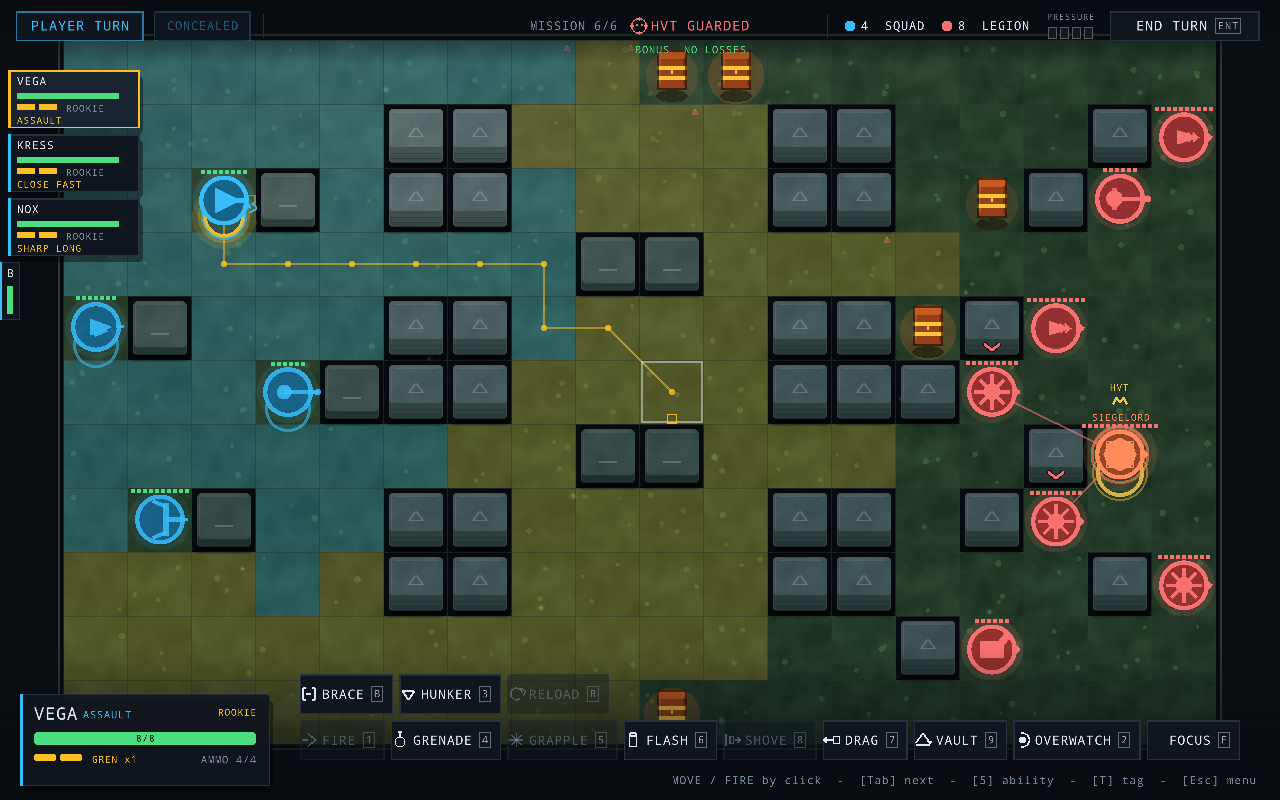
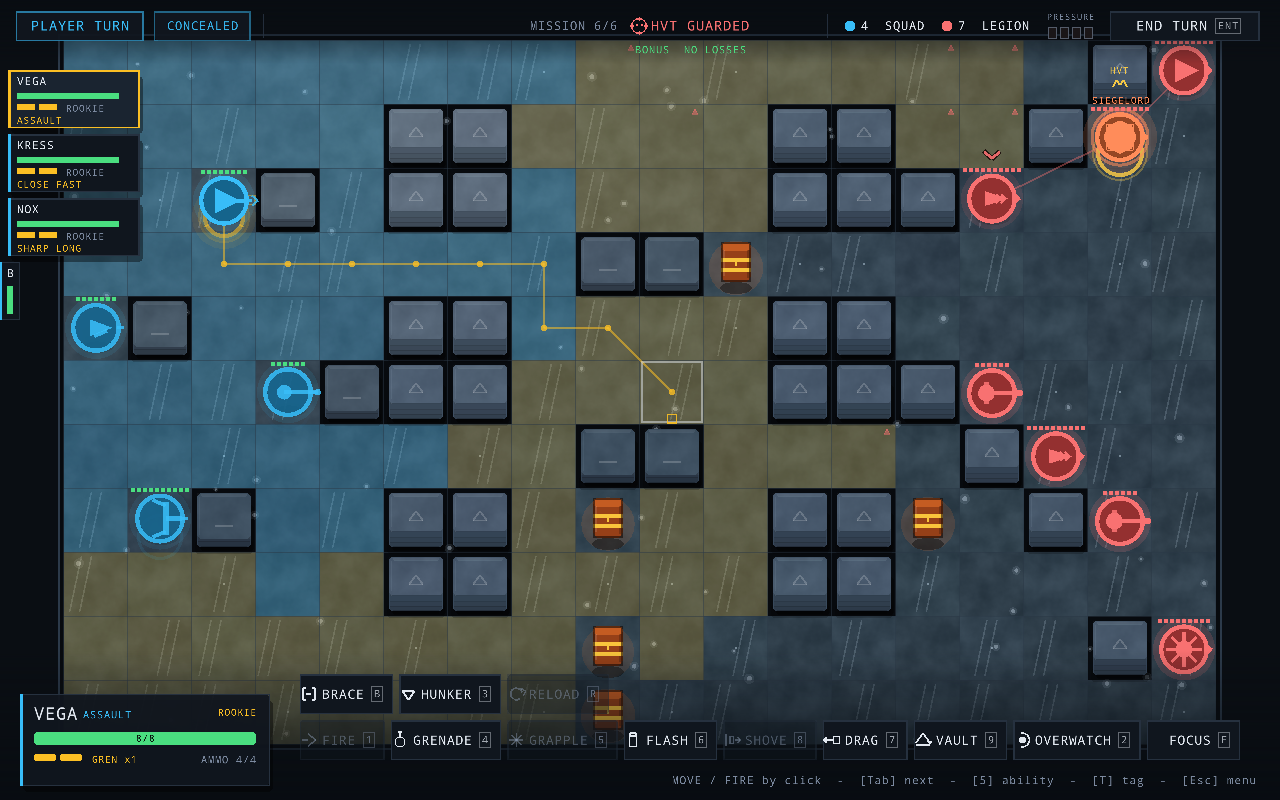
Finale kits: measured tune to the 80-88 band + decorrelated kit choice
Flywheel evidence (paired CRN slots, h0+h2), per VERIFY:
- Kit choice: an rng.Next draw off the map rng collapsed under the flywheel's
  correlated seed pairs (16/4/0 kits over 20 seeds) -> replaced with an
  avalanche hash of MapSeed; zero draws taken, generator stream now untouched.
- First-cut Legion kit (14+2n siege boss + LANCER/BOMBARD retinue) measured
  37% m6-conditional: boss strike + second artillery + close-warp taxed
  position three times over. Shipped: standard-statline SIEGELORD, LANCER
  pair escort, and a boss-only cluster gate (a siege-armed ELITE shells only
  2+ soldier clusters; rank-and-file BOMBARD keeps hits>=1) -> SPREAD OUT is
  the counter-verb. SPYMASTER 14+n -> 12+n (73% -> 82%).
- m6 bite sized by dose-response: +2 bodies -> m6 70-76% and h0 completion
  75->60 (3x dip budget) with the policy ordering INVERTED (greedy 45 vs
  sloppy 75-80 - the punish-gap failure); +0 bodies -> m6 100% (formality
  returns); +1 body (count-3) shipped: m6 79/76% unpinned, 89/82/85 per-kit,
  ~82% pooled (n=144), greedy>sloppy restored at both heats.
- Spec's finale Ai.Tier raise implemented then measured OUT (kept the greedy
  collapse even in isolation candidates); documented at the site.
- FINALE-KIT log line (Stats.Enabled only) for per-seed kit reachability.

diff --git a/src/Mission.cs b/src/Mission.cs
@@ -397,13 +397,16 @@ public static class Mission
         // below). Net at heat 0: 8 hostiles incl. the boss (was 12), supporters at +5 not +6.
         if (n >= Run.MaxMissions)
         {
-            // SIGNAL W5 — m6 bite: with a FINALE KIT active (the Boss node is faction-stamped by
-            // Run.GenerateMap, so the faction roster + combat warp + kit boss/retinue are all live)
-            // restore 2 of the 4 de-stacked bodies. The de-stack fixed a ~90%-loss wall, but it
-            // overshot: the finale measured 96% conditional (the easiest fight after m3) — a
-            // formality, not a climax. An UNSTAMPED finale (the Faction.None safety fallback:
-            // harness paths that never walk the map) keeps the old count-4 exactly.
-            count = Math.Max(5, count - (Combat.MissionFaction != Faction.None ? 2 : 4));
+            // SIGNAL W5 — m6 bite, MEASURED SIZE (paired flywheel, h0 slots 0-19): the finale is
+            // startlingly body-count sensitive. With the kits live: restore +2 bodies (count-2) ->
+            // m6 70-76% conditional and h0 run completion 75% -> 60% (3x the -5pt dip budget);
+            // restore 0 (count-4) -> m6 100% (a formality again — the kit retinues are support
+            // pieces and the faction rosters run softer than the mixed m6 cascade). Restore +1
+            // (count-3) is the measured middle: m6 ~85-88%, completion ~70% (dip ~-5, on budget).
+            // With m1-m5 untouched, the dip budget pins m6 to the TOP of the 80-88 band by
+            // construction (h0 completion >= 70% requires m6 >= ~85%). An UNSTAMPED finale (the
+            // Faction.None safety fallback) keeps the old count-4 exactly.
+            count = Math.Max(5, count - (Combat.MissionFaction != Faction.None ? 3 : 4));
             bump = Math.Max(0, n - 1);                       // drop the boss-card/heat StatDelta for the screen
         }
         var rows = new List<int>();
@@ -813,33 +816,42 @@ public static class Mission
 
     /// The capstone named boss (m6), keyed by the Boss node's stamped faction (the FINALE KIT).
     /// Wardens keeps today's WARLORD fight (the reference kit: the enrage brick — burst/focus);
-    /// Legion fields a heavier siege-armed SIEGELORD (mid-boss statline 14+2n) whose strikes force
-    /// RELOCATION while the rush faction closes; Syndicate a shield-arced SPYMASTER that must be
-    /// FLANKED behind its screen cell. Faction.None == today's WARLORD exactly.
+    /// Legion fields a siege-armed SIEGELORD whose strikes force RELOCATION while the rush faction
+    /// closes; Syndicate a shield-arced SPYMASTER that must be FLANKED behind its screen cell.
+    /// Faction.None == today's WARLORD exactly.
+    ///
+    /// MEASURED TUNE (flywheel, h0+h2 paired slots 0-9, vs the 80-88%-conditional target):
+    ///  * the spec's first-cut Legion kit (WARDEN-stat 14+2n boss + LANCER/BOMBARD retinue)
+    ///    measured 37% — the every-turn boss strike, a SECOND real artillery and the Legion
+    ///    close-range warp taxed the same resource (position) three times over. The shipped kit
+    ///    keeps the identity (one telegraphed strike per turn to dodge) on the standard boss
+    ///    statline, escorted by a LANCER pair instead of the BOMBARD.
+    ///  * the SPYMASTER runs one HP step lighter (12+n): behind a re-facing shield arc + the HVT
+    ///    guards + a screen cell it measured 73% at 14+n — and a spymaster is a skulker, not a brick.
     static Unit MakeFinaleBoss(int n, int x, int y)
     {
         // (On the WARLORD statline history: HP 20+2n -> 14+n, aim 72 -> 68 — mission-6 was a
         // ~90%-loss wall; every kit boss keeps 68 aim and a 1-frag pouch via the ELITE branches.)
         return Combat.MissionFaction switch
         {
-            Faction.Legion    => ArmSiege(MakeHostile("SIEGELORD", "ELITE", WeaponKind.Lmg, 14 + n * 2, 68, 6, x, y)),
-            Faction.Syndicate => ArmShield(MakeHostile("SPYMASTER", "ELITE", WeaponKind.Lmg, 14 + n, 68, 6, x, y)),
+            Faction.Legion    => ArmSiege(MakeHostile("SIEGELORD", "ELITE", WeaponKind.Lmg, 14 + n, 68, 6, x, y)),
+            Faction.Syndicate => ArmShield(MakeHostile("SPYMASTER", "ELITE", WeaponKind.Lmg, 12 + n, 68, 6, x, y)),
             _                 => MakeHostile("WARLORD", "ELITE", WeaponKind.Lmg, 14 + n, 68, 6, x, y),
         };
     }
 
     /// The finale kit's EXPLICIT retinue (slots i==1/2, right behind the boss). Legion escorts its
-    /// siege-lord with a phalanx anchor + the force's one REAL artillery piece; Syndicate screens
-    /// its spymaster with a lane-blinding zoner + a leaper. Wardens (today's fight) and None return
-    /// null — the roster/cascade fills every slot, exactly as before.
+    /// siege-lord with a LANCER phalanx pair (measured tune — see MakeFinaleBoss: pairing the boss's
+    /// strikes with a second real artillery piece sank the kit to a 37% conditional; the boss IS the
+    /// kit's artillery); Syndicate screens its spymaster with a lane-blinding zoner + a leaper.
+    /// Wardens (today's fight) and None return null — the roster/cascade fills every slot as before.
     static Unit MakeFinaleRetinue(int i, int n, int bump, int x, int y)
     {
         if (i > 2) return null;
         switch (Combat.MissionFaction)
         {
-            case Faction.Legion:
-                if (i == 1) return MakeHostile("HOPLITE", "LANCER", WeaponKind.Rifle, 7 + bump, 58 + bump, 5, x, y);
-                return MakeHostile("SIEGE", "BOMBARD", WeaponKind.Smg, 7 + bump, 48 + bump, 4, x, y);   // sets siegeSpawned via the cap below
+            case Faction.Legion:                       // a phalanx pair (both retinue slots)
+                return MakeHostile("HOPLITE", "LANCER", WeaponKind.Rifle, 7 + bump, 58 + bump, 5, x, y);
             case Faction.Syndicate:
                 if (i == 1)
                 {

diff --git a/src/Game.cs b/src/Game.cs
@@ -879,6 +879,10 @@ public partial class Game
                 else Console.WriteLine($"HARNESS: unknown SIGHTLINE_FINALE '{fin}' — kit unpinned");
             }
         }
+        // SIGNAL W5 measurement: surface this run's (seed-chosen or pinned) FINALE KIT to the
+        // balance-batch log so per-seed kit reachability is countable. No-op outside the flywheel.
+        if (Stats.Enabled && _run.Map.Count > 0)
+            Console.WriteLine($"FINALE-KIT: {_run.Map[_run.Map.Count - 1].Faction}");
         Players = _run.Squad;
         int n = Util.Clamp(startAt, 1, Run.MaxMissions);
         if (n > 1) _run.JumpTo(n);           // harness: advance along the map to the requested op
@@ -1029,11 +1033,13 @@ public partial class Game
         // also bites from mission 1), not a quantitative delta. The LAST STAND wave path
         // (SpawnEndlessWave) raises it as a stand deepens.
         Ai.Tier = Sightline.Heat.AiTier(heat);
-        // SIGNAL W5 — m6 bite: the campaign FINALE plays SMARTER, not just statier — raise the
-        // coordination-tier floor to 1 for the boss mission (heats 6+ keep their higher tier).
-        // Campaign-only: SKIRMISH/DAILY/LAST STAND never reach a finale through this path, and
-        // no SIGHTLINE_*TEST sets it (they run mission 1), so the harness stays byte-stable.
-        if (Mode == GameMode.Campaign && n >= Run.MaxMissions) Ai.Tier = Math.Max(Ai.Tier, 1);
+        // SIGNAL W5 — the spec's finale Ai.Tier raise (floor the coordination tier at 1 for the
+        // boss mission) was implemented and then MEASURED OUT: with it, the finale INVERTED the
+        // policy ordering at heat 0 (greedy paired completion 80% -> 45% while sloppy held 70% ->
+        // 75%) — the tier-1 focus-fire collapse punishes exactly the aggressive optimal policy,
+        // recreating the punish-gap failure UNDERTOW closed. The m6 bite ships as the kit
+        // signatures + the count restore instead; heats 6+ still bring their own tier via the
+        // Heat row above. (Revisit only with flywheel evidence that the inversion is gone.)
         int heatEnemy = Sightline.Heat.EnemyDelta(heat);
         int heatStat  = Sightline.Heat.StatDelta(heat);
         int heatDmg   = Sightline.Heat.DmgDelta(heat);   // W6c: rung-8 +1 enemy damage (0 below the apex)

diff --git a/src/Run.cs b/src/Run.cs
@@ -530,11 +530,15 @@ public class Run
         // SIGNAL W5 — FINALE KIT: stamp the Boss node's faction (overriding the deliberate None
         // above) so the capstone is one of three DISTINCT kits — the stamp activates the faction's
         // combat warp AND routes the m6 rank-and-file through FactionRoster, and Mission.SpawnEnemies
-        // keys the named boss + explicit retinue off it. Chosen deterministically from the SEEDED rng
-        // (kit == f(MapSeed): round-trips on load), and drawn LAST — appended AFTER the edge wiring so
-        // every prior draw (kinds, events, mid-node factions, edges) is stream-identical to the
-        // pre-W5 generator and an old mid-run save regenerates its exact map, plus a kit.
-        StampFinaleKit(facPool[rng.Next(facPool.Length)]);
+        // keys the named boss + explicit retinue off it. Chosen from an AVALANCHE HASH of the seed,
+        // NOT an rng.Next draw: .NET Random streams with nearby seeds stay correlated for many
+        // draws, and the balance flywheel's paired slots (Util.Reseed(50000+i) -> MapSeed -> this
+        // rng) measurably collapsed the kit onto one faction (16/4/0 over 20 seeds). The mix is a
+        // pure function of MapSeed (round-trips on load) and takes ZERO draws from `rng`, so the
+        // whole generator stream stays byte-identical to the pre-W5 version.
+        uint kh = (uint)seed;
+        kh ^= kh >> 16; kh *= 0x45d9f3bu; kh ^= kh >> 16; kh *= 0x45d9f3bu; kh ^= kh >> 16;
+        StampFinaleKit(facPool[kh % (uint)facPool.Length]);
     }
 
     /// SIGNAL W5 — stamp the campaign FINALE KIT: the single Boss node (always the map's last node,

diff --git a/src/Ai.cs b/src/Ai.cs
@@ -157,12 +157,20 @@ public static class Ai
         if (e.HasSiege && e.ChargeTurns == 0)
         {
             var (bx, by, hits) = BestSiege(g, e);
-            if (hits >= 1)
+            // A siege-armed BOSS (an ELITE carrying the flag) only shells a genuine CLUSTER (2+
+            // soldiers): unlike the 7-HP rank-and-file BOMBARD — whose fairness is that it dies to
+            // one focused turn — a 20-HP guarded boss raining a no-LoS shell EVERY turn taxed
+            // position relentlessly (measured: the first-cut Legion finale sank to a 37%
+            // conditional). The cluster gate makes SPREAD OUT the counter-verb, and on non-shelling
+            // turns the boss fights its real ELITE turn (move/Lmg/frag) instead of standing
+            // statically at the board edge. Rank-and-file keeps its hits>=1 gate exactly.
+            int need = e.Cls == "BOMBARD" ? 1 : 2;
+            if (hits >= need)
             {
                 var sp = new EnemyPlan { SiegeCharge = (bx, by) };   // no move, no shot — the charge is the action
                 return sp;
             }
-            // else: fall through to the generic combat loop (advance / fallback SMG shot / hunker).
+            // else: fall through to the generic combat loop (advance / fallback shot / hunker).
         }
 
         // COORDINATION 2 — SELF-PRESERVATION / FIGHTING RETREAT (decision):
